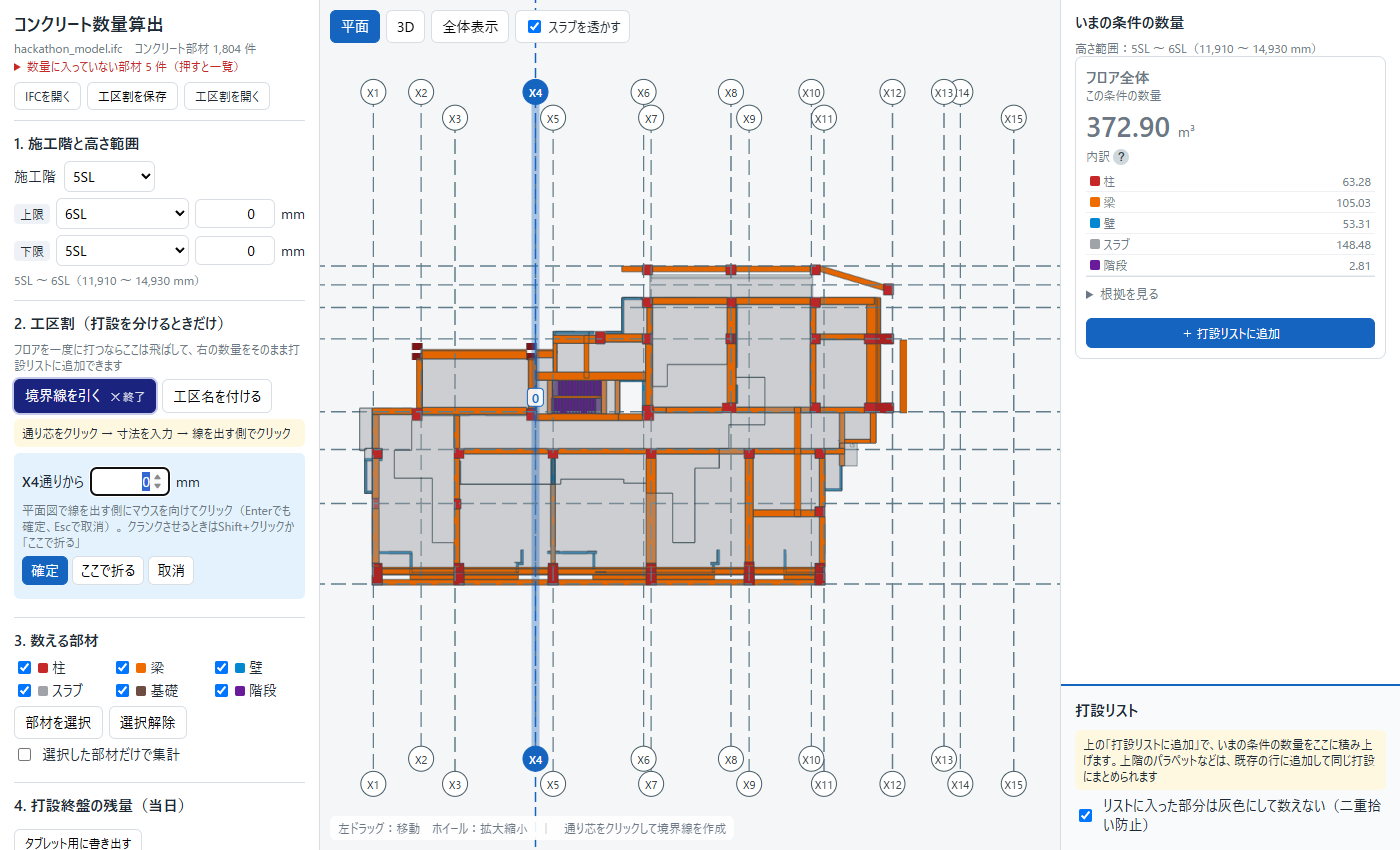
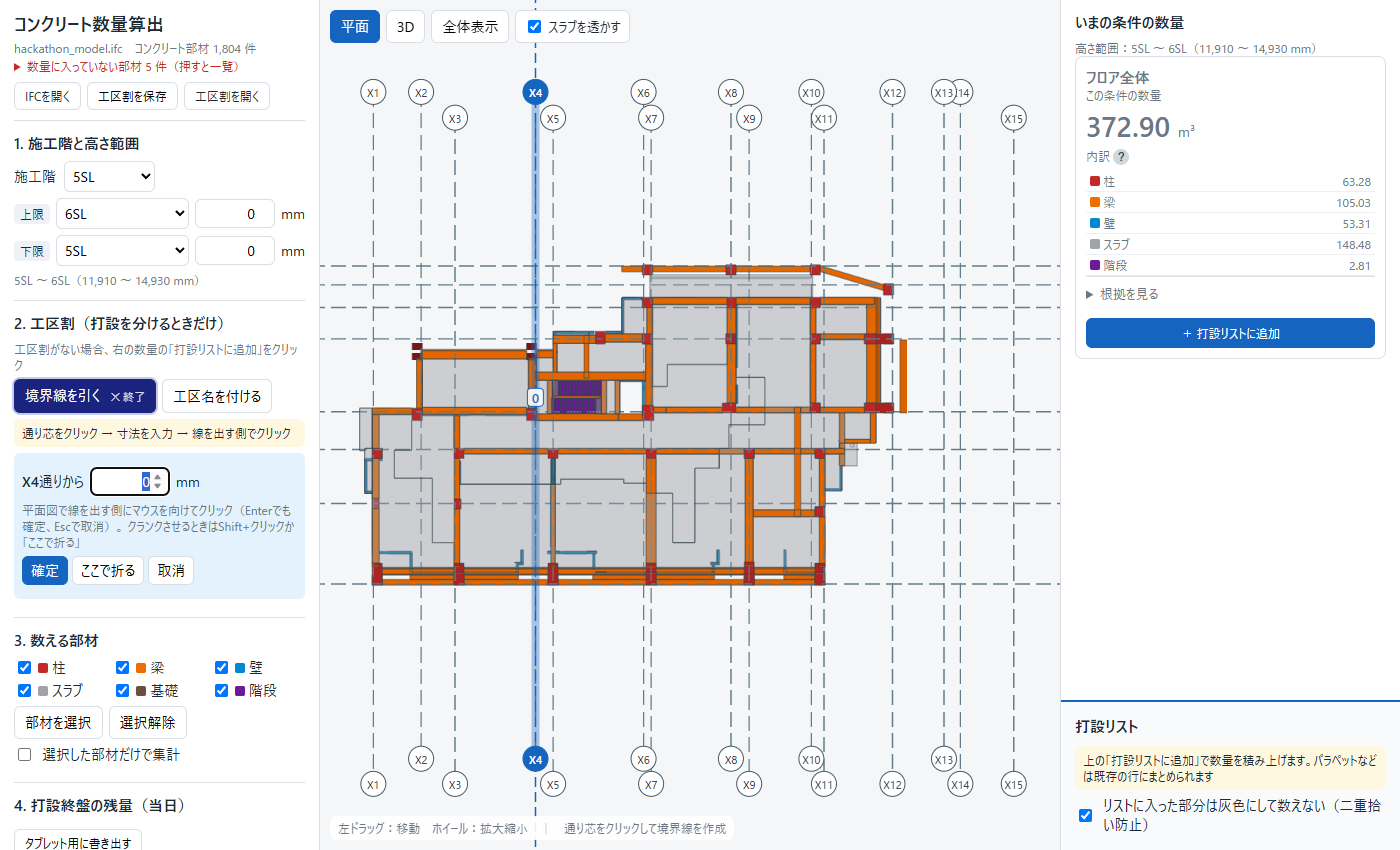
画面の文言を短くする
- PC・タブレット：「生コン車 [4.25] m³／台」に戻す（「1台の積載量」は単位で分かる）
- タブレット設定：「アプリの版：1.2.2」「データはこの端末の中だけで扱い、自動で保存します」
- PC：工区割の説明「工区割がない場合、右の数量の「打設リストに追加」をクリック」、
  書き出しの説明「全スパンの数量を保存します（スパンの選択は不要）。当日はタブレットで開きます」、
  打設リストの説明を短く、目安ボタンの上「コン天から打設済みコンクリートまでの目安高さ」

Changed region(s): [[0.7679, 0.7953, 1.0, 0.9176], [0.0, 0.3976, 0.215, 0.4588]]

diff --git a/frontend/index.html b/frontend/index.html
@@ -37,7 +37,7 @@
 
     <section>
       <h2>2. 工区割（打設を分けるときだけ）</h2>
-      <div class="muted">フロアを一度に打つならここは飛ばして、右の数量をそのまま打設リストに追加できます</div>
+      <div class="muted">工区割がない場合、右の数量の「打設リストに追加」をクリック</div>
       <div class="modes">
         <button data-mode="boundary" class="mode">境界線を引く</button>
         <button data-mode="zone" class="mode">工区名を付ける</button>
@@ -79,14 +79,14 @@
     <section>
       <h2>4. 打設終盤の残量（当日）</h2>
       <div class="filebtns"><button id="exportSite" class="filebtn">タブレット用に書き出す</button></div>
-      <div class="muted">いまの条件の全スパンの数量を保存します。スパンを選ぶ必要はありません。当日はタブレットの「残量チェック」で開き、打設済みのスパンを押していきます</div>
+      <div class="muted">全スパンの数量を保存します（スパンの選択は不要）。当日はタブレットで開きます</div>
       <div class="modes"><button data-mode="remain" class="mode">PCで残りのスパンを選ぶ</button></div>
       <div id="remainHelp" class="help hidden">平面図で残りのスパンを打設する順にタップ（もう一度タップで外す）。柱・梁は下の高さまで打設済みとして計算します</div>
       <div id="remainBody" class="hidden">
         <div class="row">柱・梁の打ち上がり：コン天 −<input id="remainDepth" type="number" step="10" min="0" value="0">mm</div>
-        <div class="muted">目安を入れる（選んだスパンの値。押すと上の欄に入ります）</div>
+        <div class="muted">コン天から打設済みコンクリートまでの目安高さ</div>
         <div class="row presets"><button data-preset="slab">スラブ下</button><button data-preset="beam">梁せい中央</button><button data-preset="none">未打設（全量）</button></div>
-        <div class="row">生コン車1台の積載量 <input id="truckM3" type="number" step="0.25" min="0.25" value="4.25">m³　割増（ロス分） <input id="extraPct" type="number" step="1" min="0" value="0">%</div>
+        <div class="row">生コン車 <input id="truckM3" type="number" step="0.25" min="0.25" value="4.25">m³／台　割増（ロス分） <input id="extraPct" type="number" step="1" min="0" value="0">%</div>
         <div id="remainResult" class="remain"></div>
         <div class="filebtns">
           <button id="remainCsv" class="filebtn" title="残りのスパン数ごと・打ち上がり高さごとの残量と台数の表（印刷して持ち出す用）">残量の一覧表（CSV）を書き出す</button>
@@ -120,7 +120,7 @@
     </div>
     <div class="pane-bottom">
       <div class="listhead"><h2>打設リスト</h2><div id="listTotal"></div></div>
-      <div id="unitHelp" class="help">上の「打設リストに追加」で、いまの条件の数量をここに積み上げます。上階のパラペットなどは、既存の行に追加して同じ打設にまとめられます</div>
+      <div id="unitHelp" class="help">上の「打設リストに追加」で数量を積み上げます。パラペットなどは既存の行にまとめられます</div>
       <ul id="unitList" class="list units"></ul>
       <div id="unitSummary"></div>
       <button id="exportCsv" class="filebtn hidden" title="打設リストと部材明細の2つのCSVを保存します">CSVで書き出す</button>

diff --git a/site_app/index.html b/site_app/index.html
@@ -65,8 +65,8 @@
         <button class="btn" data-preset="none">未打設（全量）</button>
       </div>
       <div class="row">
-        <label for="truck">生コン車1台の積載量</label>
-        <input id="truck" type="number" inputmode="decimal" min="0.25" step="0.25"><span>m³</span>
+        <label for="truck">生コン車</label>
+        <input id="truck" type="number" inputmode="decimal" min="0.25" step="0.25"><span>m³／台</span>
         <label for="extra">割増（ロス分）</label>
         <input id="extra" type="number" inputmode="decimal" min="0" step="1"><span>%</span>
       </div>
@@ -89,8 +89,8 @@
   <div id="settings" class="sheet hidden">
     <div class="sheetbody">
       <h2>設定</h2>
-      <p>アプリの版：<b id="appVersion"></b>（新しい版に入れ替わったかの確認用）</p>
-      <p class="small muted">データはこの端末の中だけで扱い、どこにも送信しません。作業の状態はこの端末に自動で保存します。</p>
+      <p>アプリの版：<b id="appVersion"></b></p>
+      <p class="small muted">データはこの端末の中だけで扱い、自動で保存します</p>
       <h3>不具合の記録</h3>
       <p class="small muted">うまく動かないときは、この内容をコピーして担当者に送ってください</p>
       <textarea id="errorLog" class="errorlog" readonly></textarea>

diff --git a/site_app/app.js b/site_app/app.js
@@ -1,7 +1,7 @@
 // 現場残量アプリの画面。数量の計算は calc.js（PCアプリで作った表を引いて足すだけ）
 import { fmt, fullVolume, parseSiteData, presetMm, totals, remaining, truckPlan } from './calc.js';
 
-const APP_VERSION = '1.2.0'; // sw.js の VERSION と合わせる（キャッシュで古い版が動いていないか確かめる用）
+const APP_VERSION = '1.2.2'; // sw.js の VERSION と合わせる（キャッシュで古い版が動いていないか確かめる用）
 const $ = (id) => document.getElementById(id);
 const SVGNS = 'http://www.w3.org/2000/svg';
 const CAT_COLORS = { 柱: '#c62828', 梁: '#ef6c00', 壁: '#0288d1', スラブ: '#a0a4a8', 基礎: '#6d4c41', 階段: '#6a1b9a', その他: '#546e7a' };

diff --git a/site_app/sw.js b/site_app/sw.js
@@ -1,6 +1,6 @@
 // オフラインでも開けるよう、アプリ本体（HTML・JS・CSS・アイコン）だけを保存する。データファイルは保存しない
 // 電波があるときは常に最新版を取りに行き（古い版が残らない）、圏外のときだけ保存した版を使う
-const VERSION = '1.2.0'; // app.js の APP_VERSION と合わせる
+const VERSION = '1.2.2'; // app.js の APP_VERSION と合わせる
 const CACHE = `site-app-${VERSION}`;
 const SHELL = ['./', './index.html', './app.js', './calc.js', './style.css', './manifest.webmanifest',
   './icons/icon-192.png', './icons/icon-512.png'];
